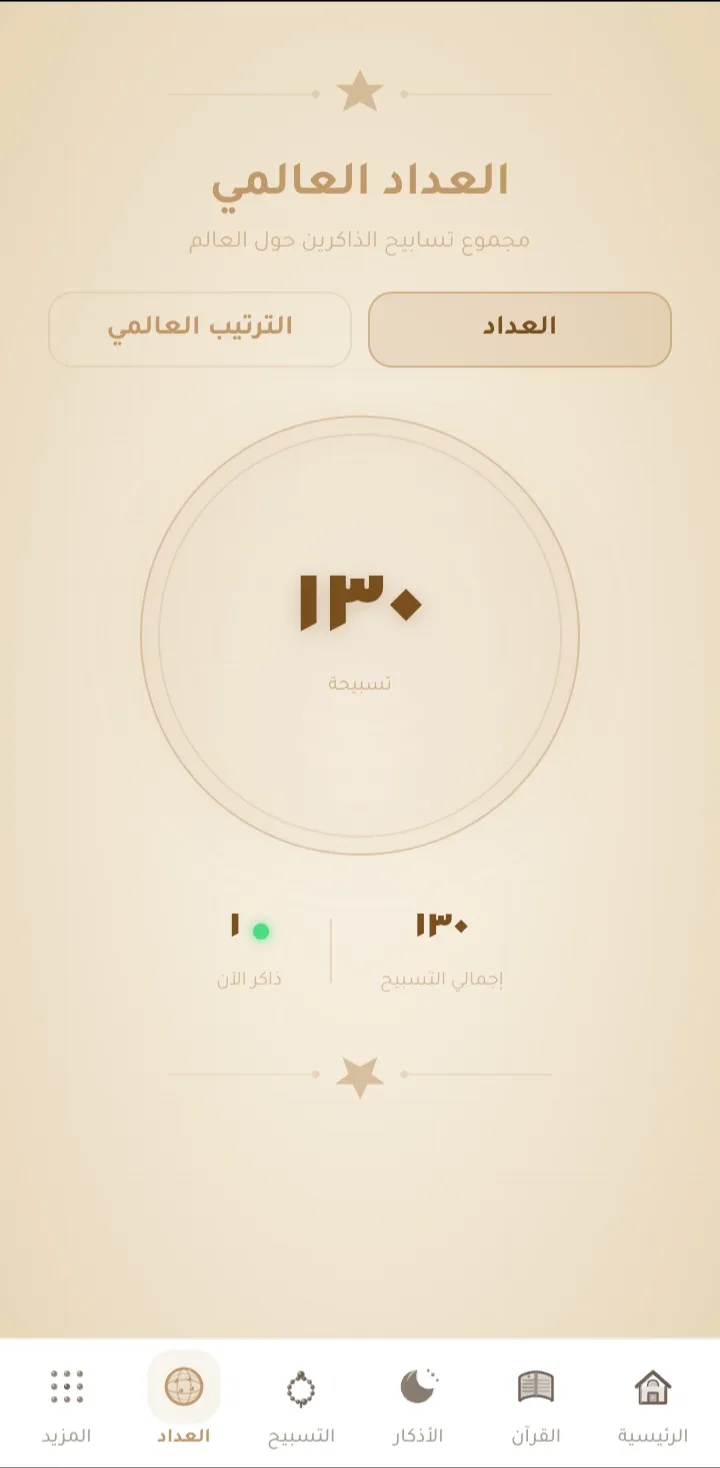
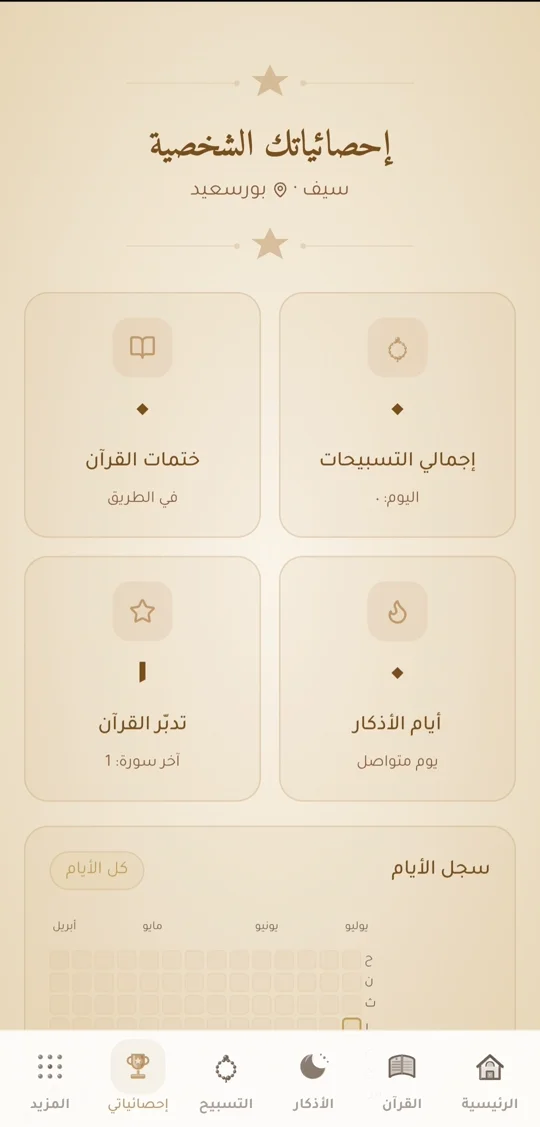
Update noor-landing manifest and screenshots, add attached asset images
Replit-Commit-Author: Agent

diff --git a/artifacts/noor-landing/index.html b/artifacts/noor-landing/index.html
@@ -26,7 +26,7 @@
     <meta property="og:url" content="https://noor-10.vercel.app/">
     <meta property="og:title" content="تطبيق نور - رفيقك الإسلامي الشامل">
     <meta property="og:description" content="تطبيق إسلامي مجاني للأندرويد — قرآن، صلاة، أذكار، +34,000 حديث. بدون إعلانات، بدون إنترنت، 30MB فقط.">
-    <meta property="og:image" content="https://noor-10.vercel.app/opengraph.jpg">
+    <meta property="og:image" content="https://noor-10.vercel.app/opengraph.webp">
     <meta property="og:image:width" content="1200">
     <meta property="og:image:height" content="630">
     <meta property="og:image:alt" content="تطبيق نور الإسلامي - قرآن وصلاة وأذكار">
@@ -38,7 +38,7 @@
     <meta name="twitter:url" content="https://noor-10.vercel.app/">
     <meta name="twitter:title" content="تطبيق نور - رفيقك الإسلامي الشامل">
     <meta name="twitter:description" content="تطبيق إسلامي مجاني — قرآن، صلاة، أذكار، +34,000 حديث. بدون إعلانات، بدون إنترنت، 30MB.">
-    <meta name="twitter:image" content="https://noor-10.vercel.app/opengraph.jpg">
+    <meta name="twitter:image" content="https://noor-10.vercel.app/opengraph.webp">
     <meta name="twitter:image:alt" content="تطبيق نور الإسلامي">
 
     <!-- ═══ Mobile / PWA ═══ -->
@@ -53,7 +53,7 @@
 
     <!-- ═══ Icons & Manifest ═══ -->
     <link rel="icon" type="image/svg+xml" href="/favicon.svg">
-    <link rel="apple-touch-icon" sizes="512x512" href="/noor-logo.png">
+    <link rel="apple-touch-icon" sizes="512x512" href="/noor-logo.webp">
     <link rel="manifest" href="/manifest.json">
     <link rel="sitemap" type="application/xml" href="/sitemap.xml">
 

diff --git a/artifacts/noor-landing/src/pages/Admin.tsx b/artifacts/noor-landing/src/pages/Admin.tsx
@@ -80,7 +80,7 @@ export default function Admin() {
         {/* Header */}
         <div className="text-center mb-8">
           <div className="w-16 h-16 rounded-2xl bg-primary/10 flex items-center justify-center mx-auto mb-4">
-            <img src="/noor-logo.png" alt="نور" className="w-10 h-10 rounded-xl object-cover" />
+            <img src="/noor-logo.webp" alt="نور" className="w-10 h-10 rounded-xl object-cover" />
           </div>
           <h1
             className="text-2xl font-black text-primary"